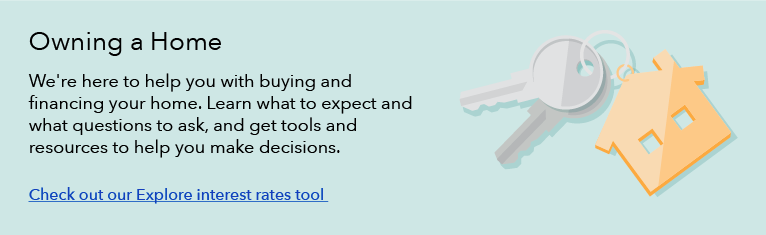
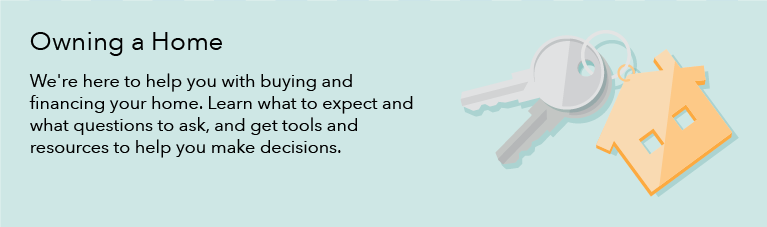
removal of CTA in examples, copy changes

diff --git a/ui-toolkit/heroes.md b/ui-toolkit/heroes.md
@@ -61,7 +61,7 @@ Heroes can contain calls to action. Rules for button versus links apply in a cal
 
 <div class="content-33 content-first">
 
-* Full-width colored background with black text and blue link or button. Standard link and button styles apply. Color contrast of text and links on background must be <a href="{{ site.baseurl }}/identity/typography.html#type-accessibility">508-accessible</a>.
+* Full-width colored background with black text and Pacific blue link or button. Standard link and button styles apply. Color contrast of text and links on background must be <a href="{{ site.baseurl }}/identity/typography.html#type-accessibility">508-accessible</a>.
 * No breadcrumb should appear in or above the hero
 * Total height: 285px
 * Text is vertically centered, top and bottom padding should be no less than 45 px
@@ -71,10 +71,10 @@ Heroes can contain calls to action. Rules for button versus links apply in a cal
 
 <div class="content-33">
 * Text spans seven columns
-* Headline: H1, 25 maximum character count
-* Body copy: H3, begins 15px below headline, 185 maximum character count
-* Call to action link: Standard link colors in body copy style, appears 30px below body copy
-* Call to action button: Blue primary button, appears 30px below the body copy
+* Heading: H1, 25 maximum character count (including spaces)
+* Subheading: Lead paragraph (Avenir Next Regular 22px/28px) begins 15px below headline, 185 maximum character count (including spaces)
+* Call to action link: Standard link colors in subheading style, appears 30px below subheading
+* Call to action button: Pacific Blue primary button, appears 30px below the subheading
 
 </div>
 
@@ -92,8 +92,8 @@ Heroes can contain calls to action. Rules for button versus links apply in a cal
 * Top and bottom padding: 30px
 * Module height is flexible to text height
 * Visual is vertically centered
-* Headline: H2
-* Body copy: H4
+* Heading: H2
+* Subheading: Lead paragraph (Avenir Next Regular, 18px/22px)
 
 </div>
 
@@ -108,6 +108,8 @@ Heroes can contain calls to action. Rules for button versus links apply in a cal
 
 <div class="content-33 content-first">
 
+* Heading: H2
+* Subheading: Lead paragraph (Avenir Next Regular, 18px/22px)
 * Top and bottom padding: 30px
 * Illustration is 30px below copy and spans width (to 15px padding)
 
